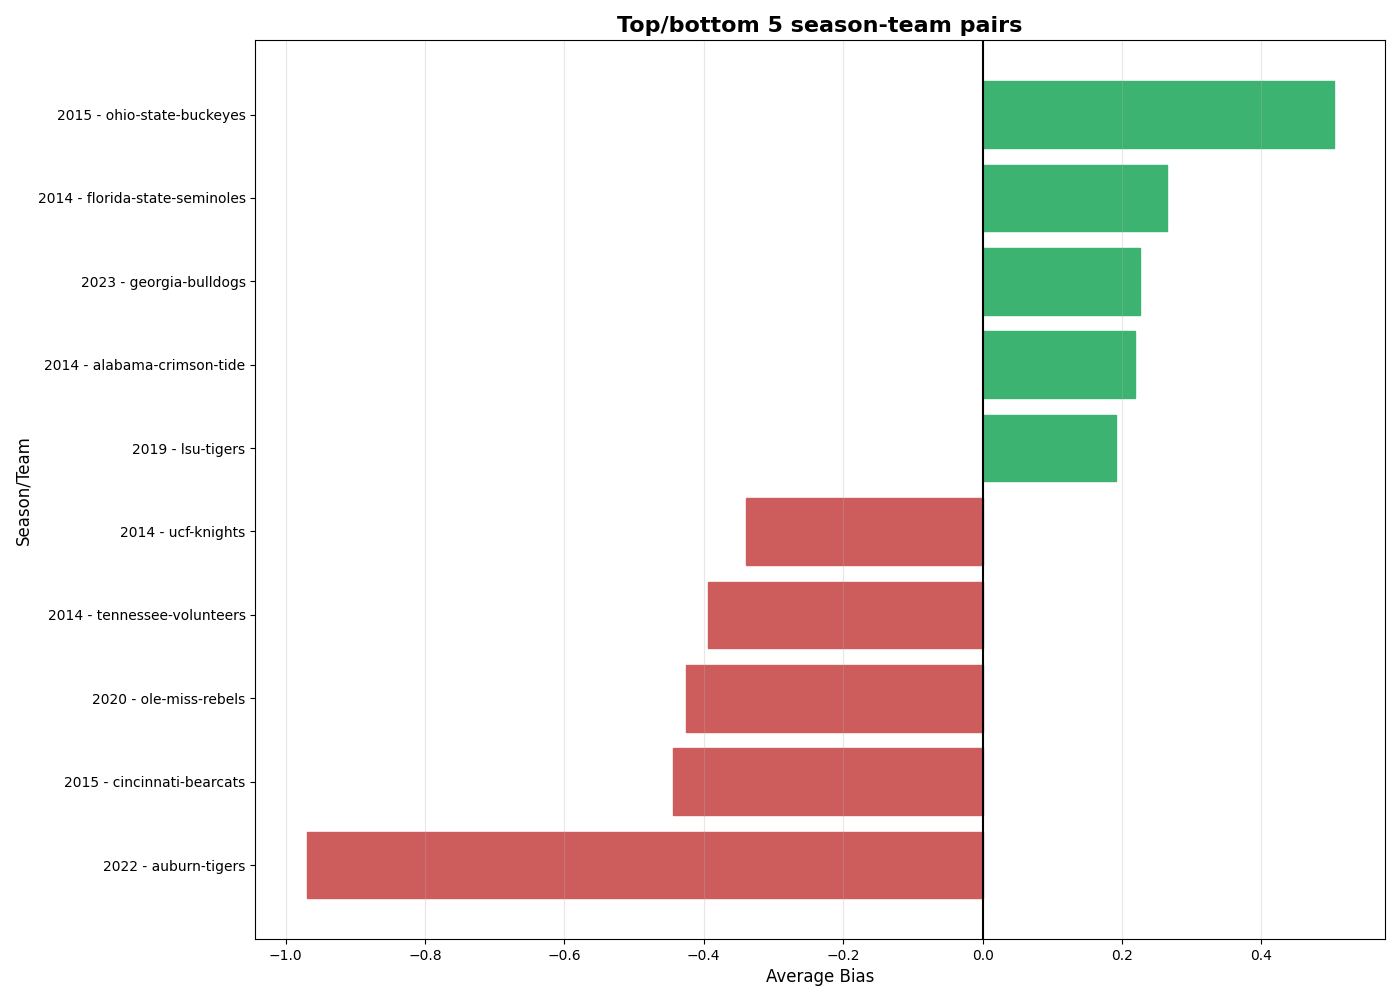
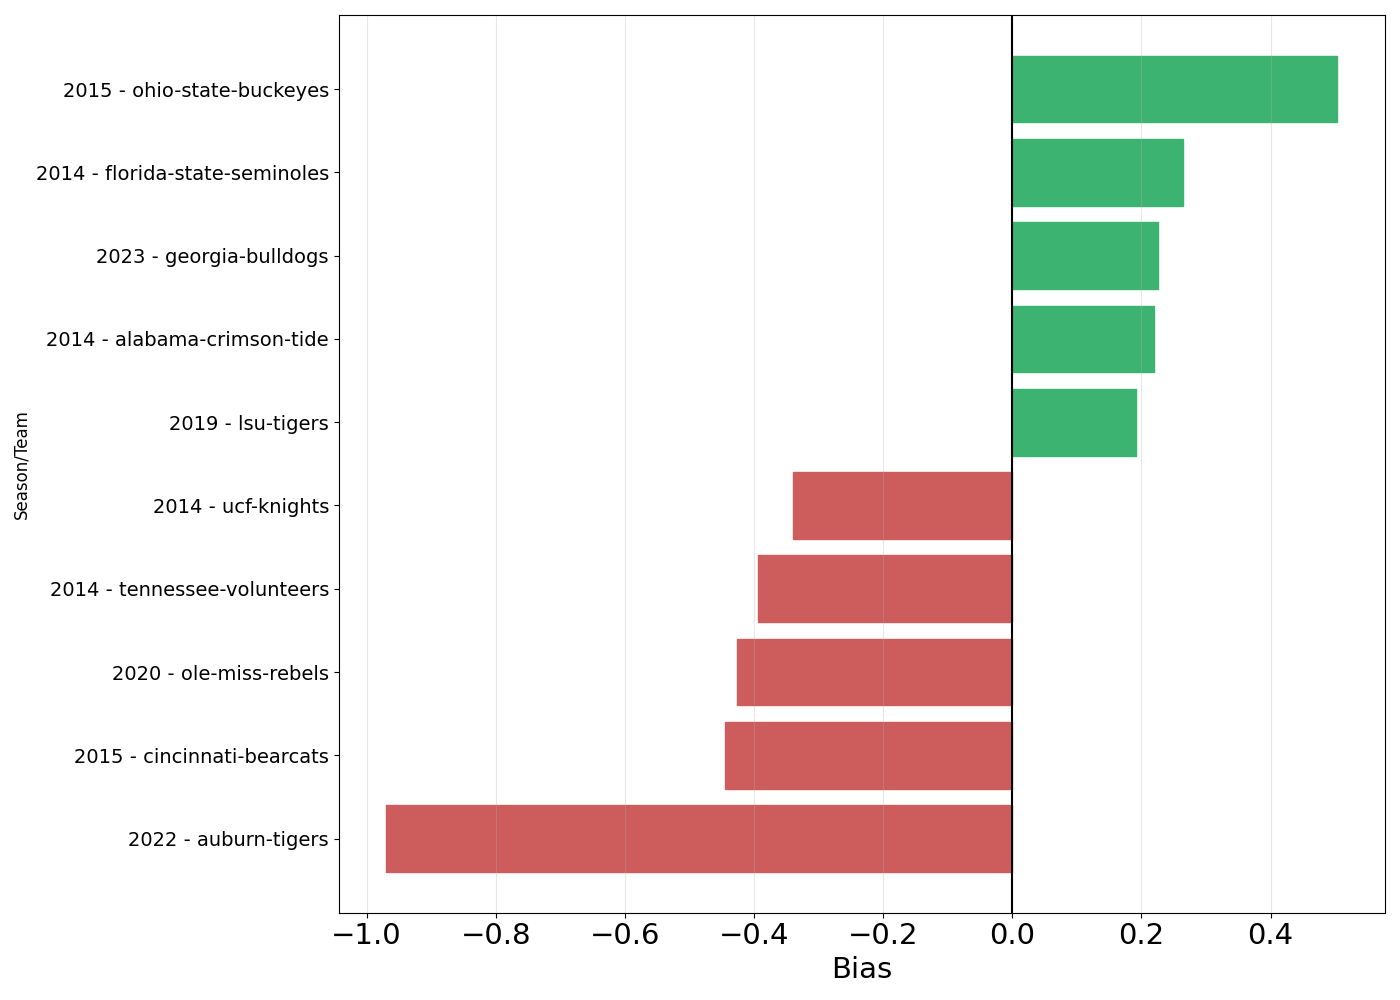
graph updates

diff --git a/scripts/create_visuals.py b/scripts/create_visuals.py
@@ -38,16 +38,17 @@ def graph_weekly_bias_std(input_csv: str):
     
     plt.figure(figsize=(16, 8))
     
-    plt.plot(df['plot_index'], df['bias1_std'], 'o-', label='AP Rank', linewidth=2, markersize=3) # set up the lines
-    plt.plot(df['plot_index'], df['bias2_std'], 's-', label='Mean', linewidth=2, markersize=3)
-    plt.plot(df['plot_index'], df['bias3_std'], '^-', label='Median', linewidth=2, markersize=3)
+    plt.plot(df['plot_index'], df['bias1_std'], 'o-', linewidth=4, markersize=3) # set up the lines
+    # plt.plot(df['plot_index'], df['bias2_std'], 's-', label='Mean', linewidth=2, markersize=3)
+    # plt.plot(df['plot_index'], df['bias3_std'], '^-', label='Median', linewidth=2, markersize=3)
    
     plt.xticks(df['plot_index'], df['week'])  
     plt.xlabel('Week', fontsize=12) 
     
-    plt.title('Voter Bias Measurements', fontsize=16, fontweight='bold')
-    plt.xlabel('Week)', fontsize=12)
-    plt.ylabel('Bias (std)', fontsize=12)
+    plt.xticks(fontsize=23) 
+    plt.yticks(fontsize=14) 
+    plt.xlabel('Week', fontsize=23)
+    plt.ylabel('Standard Deviation of Bias', fontsize=14)
     plt.legend(fontsize=10)
     plt.grid(True, alpha=0.3)
     plt.tight_layout()
@@ -208,10 +209,10 @@ def create_voterteam_pair(input_csv: str, master_csv: str, min_votes: int = 500)
     for bar, color in zip(bars, colors):
         bar.set_color(color)
     
+    plt.xticks(fontsize=21) 
+    plt.yticks(fontsize=14) 
     plt.axvline(x=0, color='black', linestyle='-', linewidth=1.5)
-    plt.title(f'Top/bottom 5 voter team pairs by AP Rank Bias (voters with ≥{min_votes} total votes)', 
-              fontsize=16, fontweight='bold')
-    plt.xlabel('Bias (avg)', fontsize=12)
+    plt.xlabel('Bias', fontsize=21)
     plt.ylabel('Voter/Team', fontsize=12)
     plt.grid(True, alpha=0.3, axis='x')
     plt.tight_layout()
@@ -235,9 +236,10 @@ def create_seasonteam_pair(input_csv: str):
     for bar, color in zip(bars, colors):
         bar.set_color(color)
     
+    plt.xticks(fontsize=21) 
+    plt.yticks(fontsize=14) 
     plt.axvline(x=0, color='black', linestyle='-', linewidth=1.5)
-    plt.title('Top/bottom 5 season-team pairs', fontsize=16, fontweight='bold')
-    plt.xlabel('Average Bias', fontsize=12)
+    plt.xlabel('Bias', fontsize=21)
     plt.ylabel('Season/Team', fontsize=12)
     plt.grid(True, alpha=0.3, axis='x')
     plt.tight_layout()
@@ -285,5 +287,5 @@ def graph_weekly_mean_bias_boxplot(input_csv: str):
     plt.close()
 
 if __name__ == "__main__":
-    #graph_weekly_mean_bias_boxplot("/Users/albertbogdan/IML-FALL2025---Voter-Bias/output_data/cfb/summary_stats/cfb_ss_week.csv")
-    create_voterteam_pair("/Users/albertbogdan/IML-FALL2025---Voter-Bias/output_data/cfb/average_biases/voter_team_biases.csv", "/Users/albertbogdan/IML-FALL2025---Voter-Bias/output_data/cfb/cfb_master_bias_file.csv")
+    graph_weekly_bias_std("/Users/albertbogdan/IML-FALL2025---Voter-Bias/output_data/cfb/summary_stats/cfb_ss_week.csv")
+    #create_seasonteam_pair("/Users/albertbogdan/IML-FALL2025---Voter-Bias/output_data/cfb/average_biases/season_team_biases.csv")
